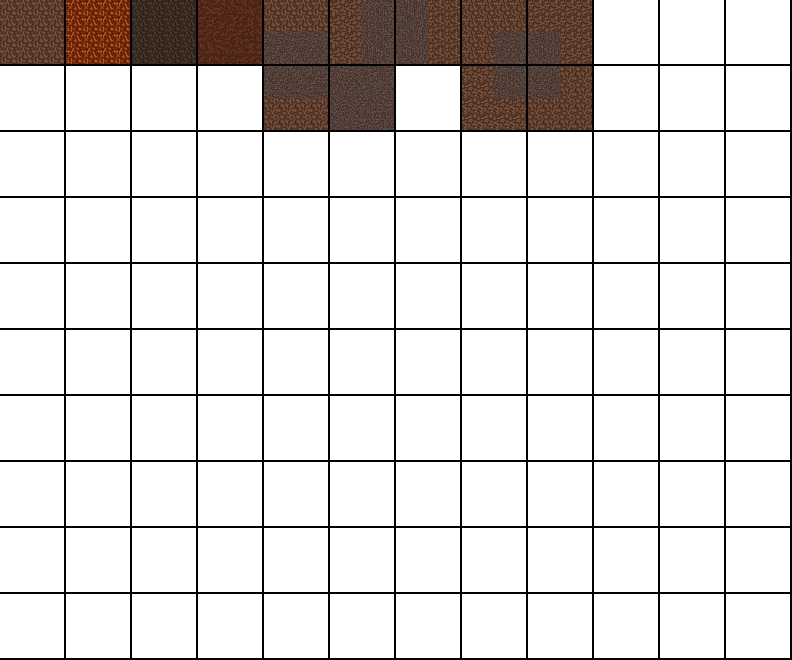
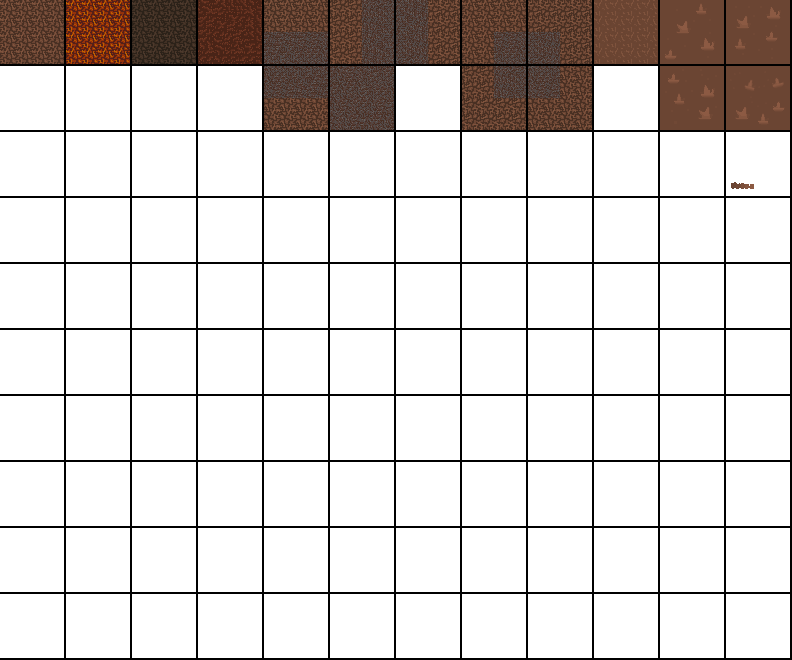
Interface changes, time is now displayed in 00:00:00

Changed region(s): [[0.7273, 0.0, 1.0, 0.2121], [0.9091, 0.2727, 0.9394, 0.303]]

diff --git a/core/src/com/coldpixel/sparkle/sprites/BonFire.java b/core/src/com/coldpixel/sparkle/sprites/BonFire.java
@@ -1,8 +1,3 @@
-/*
- * To change this license header, choose License Headers in Project Properties.
- * To change this template file, choose Tools | Templates
- * and open the template in the editor.
- */
 package com.coldpixel.sparkle.sprites;
 
 import box2dLight.PointLight;
@@ -18,7 +13,6 @@ import com.badlogic.gdx.physics.box2d.Body;
 import com.badlogic.gdx.physics.box2d.BodyDef;
 import com.badlogic.gdx.physics.box2d.CircleShape;
 import com.badlogic.gdx.physics.box2d.FixtureDef;
-import com.badlogic.gdx.physics.box2d.PolygonShape;
 import com.badlogic.gdx.physics.box2d.World;
 import com.badlogic.gdx.utils.Array;
 import com.coldpixel.sparkle.Main;
@@ -27,7 +21,8 @@ import com.coldpixel.sparkle.Main;
  *
  * @author MikeSSD
  */
-public class BonFire extends Sprite {
+public final class BonFire extends Sprite {
+
     private float posX;
     private float posY;
     private float radius;
@@ -41,13 +36,11 @@ public class BonFire extends Sprite {
     private Animation burning;
     private float stateTimer;
     Array<TextureRegion> frames;
-    private TextureRegion fireBurning;
     private PointLight pointLight;
     private float currentDistance;
     private float previousDistance;
     private float frameDuration;
 
-    
     public BonFire(EllipseMapObject ellipse, World world) {
         this.world = world;
         e = ellipse.getEllipse();
@@ -55,15 +48,15 @@ public class BonFire extends Sprite {
         posY = e.y;
         radius = e.width;
         width = 32;
-        height=64;
-        scale=2;
-        frameDuration=0.15f;
-        currentDistance = radius/Main.PPM*4;
+        height = 64;
+        scale = 2;
+        frameDuration = 0.15f;
+        currentDistance = radius / Main.PPM * 4;
         previousDistance = currentDistance;
         defineBonFire();
-        
-        setBounds(0, 0, width/Main.PPM*scale, height/Main.PPM*scale);
-        setPosition(b2Body.getPosition().x - (64/2/Main.PPM), b2Body.getPosition().y - (64/2/Main.PPM));
+
+        setBounds(0, 0, width / Main.PPM * scale, height / Main.PPM * scale);
+        setPosition(b2Body.getPosition().x - (64 / 2 / Main.PPM), b2Body.getPosition().y - (64 / 2 / Main.PPM));
         stateTimer = 0;
         frames = new Array<TextureRegion>();
         //STANDING
@@ -75,40 +68,42 @@ public class BonFire extends Sprite {
 
     public void defineBonFire() {
         BodyDef bDef = new BodyDef();
-        bDef.position.set((posX+radius/2) / Main.PPM, (posY+radius/2) / Main.PPM);
+        bDef.position.set((posX + radius / 2) / Main.PPM, (posY + radius / 2) / Main.PPM);
         bDef.type = BodyDef.BodyType.StaticBody;
         b2Body = world.createBody(bDef);
 
         FixtureDef fDef = new FixtureDef();
         CircleShape rectangleShape = new CircleShape();
-        rectangleShape.setRadius(radius/200f);
-        
+        rectangleShape.setRadius(radius / 200f);
+
         fDef.shape = rectangleShape;
         b2Body.createFixture(fDef);
     }
-    
+
     public TextureRegion getFrame(float dt) {
         TextureRegion region;
         region = burning.getKeyFrame(stateTimer);
         stateTimer = stateTimer + dt;
         return region;
     }
-    
+
     public void update(float dt) {
         setRegion(getFrame(dt));
         //light rays extend and shorten
-        if(previousDistance >= radius/Main.PPM*4){
-            currentDistance -= 1/Main.PPM;
-            if(currentDistance < radius/Main.PPM*3)
+        if (previousDistance >= radius / Main.PPM * 4) {
+            currentDistance -= 1 / Main.PPM;
+            if (currentDistance < radius / Main.PPM * 3) {
                 previousDistance = currentDistance;
-        }else if(previousDistance <= radius/Main.PPM*4){
-            currentDistance += 1/Main.PPM;
-            if(currentDistance > radius/Main.PPM*3)
+            }
+        } else if (previousDistance <= radius / Main.PPM * 4) {
+            currentDistance += 1 / Main.PPM;
+            if (currentDistance > radius / Main.PPM * 3) {
                 previousDistance = currentDistance;
+            }
         }
         pointLight.setDistance(currentDistance);
     }
-    
+
     public float getPosX() {
         return posX;
     }
@@ -119,17 +114,17 @@ public class BonFire extends Sprite {
 
     public float getWidth() {
         return radius;
-    } 
-    
-    public Color getColor(){
+    }
+
+    public Color getColor() {
         return color;
     }
-    
-    public Body getBody(){
+
+    public Body getBody() {
         return b2Body;
     }
-    
-   public void setPointLight(PointLight pLight){
-       pointLight = pLight;
-   }
+
+    public void setPointLight(PointLight pLight) {
+        pointLight = pLight;
+    }
 }

diff --git a/core/src/com/coldpixel/sparkle/scenes/Hud.java b/core/src/com/coldpixel/sparkle/scenes/Hud.java
@@ -31,7 +31,10 @@ public class Hud implements Disposable {
     private final Table table;
 
     private int playerLife;
-    private short timeValue;
+    private int timeValue;
+    private int seconds;
+    private int minutes;
+    private int hours;
     private int scoreValue;
     private int maxLife;
     private final float gap;
@@ -40,11 +43,11 @@ public class Hud implements Disposable {
     private final float lifebarWidth;
     private final float lifebarHeight;
 
-    Label playerLifeLabel;
-    Label timeLabel;
-    Label timeValueLabel;
-    Label scoreLabel;
-    Label scoreValueLabel;
+    private Label playerLifeLabel;
+    private Label timeValueLabel;
+
+    private Label scoreLabel;
+    private Label scoreValueLabel;
 
     private BitmapFont font;
 
@@ -58,6 +61,10 @@ public class Hud implements Disposable {
         playerLife = 92;
         scoreValue = 57;
         timeValue = 0;
+        seconds = 0;
+        minutes = 0;
+        hours = 0;
+
         gap = Gdx.graphics.getHeight() / 48;
         shaperenderer = new ShapeRenderer();
         startTime = TimeUtils.nanoTime();
@@ -99,21 +106,21 @@ public class Hud implements Disposable {
         table.top();
         table.setFillParent(true);//=size of the stage
         playerLifeLabel = new Label(String.format("%03d", playerLife) + " / " + maxLife, new Label.LabelStyle(new BitmapFont(), Color.BLACK)); //4 numbers
-        timeLabel = new Label("TIME", new Label.LabelStyle(new BitmapFont(), Color.WHITE));
         scoreLabel = new Label("Score", new Label.LabelStyle(new BitmapFont(), Color.WHITE));
 
-        timeValueLabel = new Label(String.format("%04d", timeValue), new Label.LabelStyle(new BitmapFont(), Color.WHITE));
+        timeValueLabel = new Label("00:00:00", new Label.LabelStyle(new BitmapFont(), Color.WHITE));
         scoreValueLabel = new Label(String.format("%06d", scoreValue), new Label.LabelStyle(new BitmapFont(), Color.WHITE));
 
 //        table.setDebug(true);
         table.drawDebug(shaperenderer);
         table.add(playerLifeLabel).left().padTop(gap).padLeft(Gdx.graphics.getWidth() / 10);
-        table.add(timeLabel).expandX().padTop(gap);
-        table.add(scoreLabel).right().padTop(gap).padRight(gap);
+        table.add(timeValueLabel).expandX().padTop(gap);
+//        table.add(scoreLabel).right().padTop(gap).padRight(gap);
+        table.add(scoreValueLabel).right().padTop(gap).padRight(gap);
         table.row();
-        table.add();
-        table.add(timeValueLabel);
-        table.add(scoreValueLabel).right().padRight(gap);
+//        table.add();
+//        table.add();
+//        table.add(scoreValueLabel).right().padRight(gap);
         stage.addActor(table);
     }
 
@@ -144,10 +151,13 @@ public class Hud implements Disposable {
 
     public void timer() {
         if (TimeUtils.timeSinceNanos(startTime) > 1000000000) {//Every second
-            if (timeValue < 9000) {
+            if (timeValue < 86400) {//1day 
                 timeValue++;
-                timeValueLabel.setText(String.format("%04d", timeValue));
-            } else if (timeValue == 9000) {
+                seconds = timeValue % 60;
+                minutes = (timeValue / 60) % 60;
+                hours = (timeValue / 60 / 60) % 60;
+                timeValueLabel.setText(String.format("%02d", hours) + ":" + String.format("%02d", minutes) + ":" + String.format("%02d", seconds));
+            } else if (timeValue == 86400) {
                 timeValueLabel.setText("over 9000");
             }
             startTime = TimeUtils.nanoTime();
